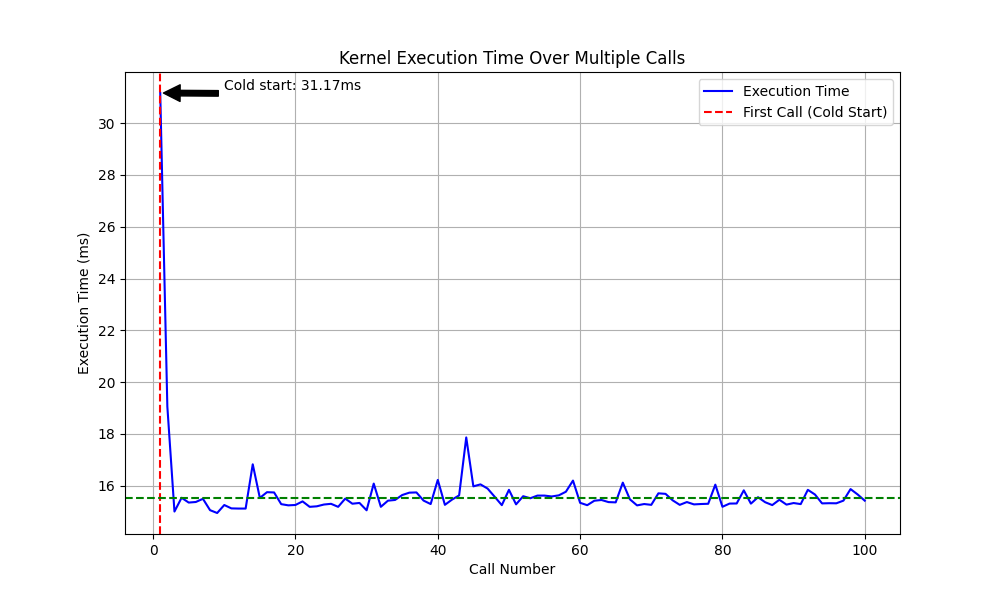
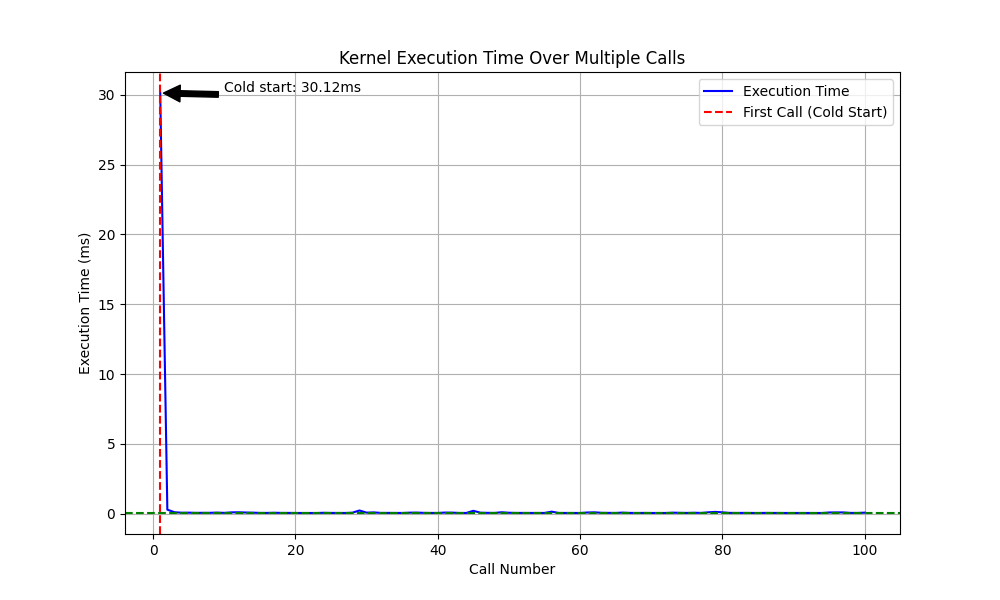
fixed examples and added Torch Extension Comparisson

diff --git a/examples/benchmark.py b/examples/benchmark.py
@@ -1,0 +1,97 @@
+import torch
+import catapult
+import time
+import matplotlib.pyplot as plt
+import saxpy_cuda
+import numpy as np
+
+NUM_THREADS = 128
+NUM_BLOCKS = 32
+N = NUM_THREADS * NUM_BLOCKS
+NUM_RUNS = 100
+
+@catapult.jit(
+    kernel_path="example_kernel.cu",
+    kernel_name="saxpy"
+)
+def catapult_saxpy(a, x, y):
+    output = torch.zeros_like(x)
+    catapult_saxpy.kernel[(NUM_BLOCKS, 1, 1), (NUM_THREADS, 1, 1)](a, x, y, output, N)
+    return output
+
+def benchmark():
+    device = torch.device("cuda")
+    a = 2.0
+    x = torch.rand(N, device=device, dtype=torch.float32)
+    y = torch.rand(N, device=device, dtype=torch.float32)
+    
+    # Warmup
+    for _ in range(10):
+        _ = catapult_saxpy(a, x, y)
+        _ = saxpy_cuda.saxpy(a, x, y)
+    
+    torch.cuda.synchronize()
+    
+    catapult_times = []
+    torch_ext_times = []
+    
+    # Benchmark runs
+    for i in range(NUM_RUNS):
+        # Catapult timing
+        start = time.perf_counter()
+        out_catapult = catapult_saxpy(a, x, y)
+        torch.cuda.synchronize()
+        catapult_times.append((time.perf_counter() - start) * 1000)
+        
+        # PyTorch Extension timing
+        start = time.perf_counter()
+        out_torch = saxpy_cuda.saxpy(a, x, y)
+        torch.cuda.synchronize()
+        torch_ext_times.append((time.perf_counter() - start) * 1000)
+        
+        # Verify results match
+        if i == 0:
+            assert torch.allclose(out_catapult, out_torch, rtol=1e-5, atol=1e-5)
+    
+    return catapult_times, torch_ext_times
+
+def plot_results(catapult_times, torch_ext_times):
+    plt.figure(figsize=(12, 6))
+    x = range(len(catapult_times))
+    
+    plt.plot(x, catapult_times, 'b-', label='Catapult JIT', alpha=0.7)
+    plt.plot(x, torch_ext_times, 'r-', label='PyTorch Extension', alpha=0.7)
+    
+    plt.xlabel('Run Number')
+    plt.ylabel('Execution Time (ms)')
+    plt.title('SAXPY Kernel Performance: Catapult vs PyTorch Extension')
+    plt.grid(True, alpha=0.3)
+    plt.legend()
+    
+    # Add statistics as text
+    stats_text = (
+        f'Catapult Mean: {np.mean(catapult_times):.3f}ms ± {np.std(catapult_times):.3f}ms\n'
+        f'Torch Ext Mean: {np.mean(torch_ext_times):.3f}ms ± {np.std(torch_ext_times):.3f}ms'
+    )
+    plt.text(0.02, 0.98, stats_text,
+             transform=plt.gca().transAxes,
+             verticalalignment='top',
+             bbox=dict(boxstyle='round', facecolor='white', alpha=0.8))
+    
+    plt.tight_layout()
+    plt.savefig('benchmark_results.png', dpi=300, bbox_inches='tight')
+    plt.close()
+
+if __name__ == "__main__":
+    if not torch.cuda.is_available():
+        raise RuntimeError("CUDA device not available")
+        
+    print("Running benchmarks...")
+    catapult_times, torch_ext_times = benchmark()
+    
+    print("Plotting results...")
+    plot_results(catapult_times, torch_ext_times)
+    
+    print(f"Results saved to benchmark_results.png")
+    print(f"Catapult average: {np.mean(catapult_times):.3f}ms")
+    print(f"PyTorch Extension average: {np.mean(torch_ext_times):.3f}ms")

diff --git a/examples/cache_plot.py b/examples/cache_plot.py
@@ -19,20 +19,21 @@ NUM_THREADS = 128
 NUM_BLOCKS = 32
 N = NUM_THREADS * NUM_BLOCKS
 
+
 def test_kernel_cache_performance():
     # Setup
     device = torch.device("cuda" if torch.cuda.is_available() else "cpu")
     if device.type != "cuda":
         pytest.skip("CUDA device not available")
-    
+
     # Prepare input data
     a = 2.0
     x = torch.rand(N, device=device, dtype=torch.float32)
     y = torch.rand(N, device=device, dtype=torch.float32)
-    
+
     # Lists to store timing data
     execution_times = []
-    
+
     # Run kernel 100 times and measure execution time
     for i in range(100):
         start_time = time.perf_counter()
@@ -41,43 +42,45 @@ def test_kernel_cache_performance():
         end_time = time.perf_counter()
         execution_time = (end_time - start_time) * 1000  # Convert to milliseconds
         execution_times.append(execution_time)
-        
+
         # Verify correctness
         expected = a * x + y
         assert torch.allclose(out, expected), f"Iteration {i}: Output mismatch"
-    
+
     # Create visualization
     plt.figure(figsize=(10, 6))
-    plt.plot(range(1, 101), execution_times, 'b-', label='Execution Time')
-    plt.axvline(x=1, color='r', linestyle='--', label='First Call (Cold Start)')
-    plt.xlabel('Call Number')
-    plt.ylabel('Execution Time (ms)')
-    plt.title('Kernel Execution Time Over Multiple Calls')
+    plt.plot(range(1, 101), execution_times, "b-", label="Execution Time")
+    plt.axvline(x=1, color="r", linestyle="--", label="First Call (Cold Start)")
+    plt.xlabel("Call Number")
+    plt.ylabel("Execution Time (ms)")
+    plt.title("Kernel Execution Time Over Multiple Calls")
     plt.legend()
     plt.grid(True)
-    
+
     # Add annotations
-    plt.annotate(f'Cold start: {execution_times[0]:.2f}ms', 
-                xy=(1, execution_times[0]),
-                xytext=(10, execution_times[0]+0.1),
-                arrowprops=dict(facecolor='black', shrink=0.05))
-    
+    plt.annotate(
+        f"Cold start: {execution_times[0]:.2f}ms",
+        xy=(1, execution_times[0]),
+        xytext=(10, execution_times[0] + 0.1),
+        arrowprops=dict(facecolor="black", shrink=0.05),
+    )
+
     avg_cached = np.mean(execution_times[1:])
-    plt.axhline(y=avg_cached, color='g', linestyle='--', 
-                label=f'Avg Cached: {avg_cached:.2f}ms')
-    
+    plt.axhline(y=avg_cached, color="g", linestyle="--", label=f"Avg Cached: {avg_cached:.2f}ms")
+
     # Save the plot
-    plt.savefig('kernel_cache_performance.png')
-    
+    plt.savefig("kernel_cache_performance.png")
+
     # Print statistics
     print(f"\nPerformance Statistics:")
     print(f"First call (cold start): {execution_times[0]:.2f}ms")
     print(f"Average cached calls: {avg_cached:.2f}ms")
     print(f"Min cached time: {min(execution_times[1:]):.2f}ms")
     print(f"Max cached time: {max(execution_times[1:]):.2f}ms")
-    
+
     # Verify caching is working
     assert execution_times[0] > avg_cached, "Caching doesn't seem to be effective"
+
 
 if __name__ == "__main__":
     test_kernel_cache_performance()

diff --git a/examples/setup.py b/examples/setup.py
@@ -1,0 +1,43 @@
+from setuptools import setup
+from torch.utils.cpp_extension import BuildExtension, CUDAExtension
+import torch
+
+# Get CUDA compute capability
+device = torch.cuda.get_device_properties(0)
+arch = f"{device.major}{device.minor}"
+
+setup(
+    name='saxpy_cuda',
+    version='0.1',
+    author='User',
+    author_email='user@example.com',
+    description='SAXPY CUDA Extension',
+    ext_modules=[
+        CUDAExtension('saxpy_cuda', 
+            sources=['saxpy_torch.cu'],
+            extra_compile_args={
+                'cxx': ['-O3', '-std=c++17'],
+                'nvcc': [
+                    '-O3',
+                    '--use_fast_math',
+                    '-lineinfo',
+                    f'-arch=sm_{arch}',
+                    '-std=c++17',
+                    '--extended-lambda',
+                    '--expt-relaxed-constexpr'
+                ]
+            },
+            include_dirs=[
+                '/usr/local/cuda/include',
+                '/usr/local/cuda-12/include',  # Add CUDA 12 specific path
+            ]
+        )
+    ],
+    cmdclass={
+        'build_ext': BuildExtension
+    },
+    python_requires='>=3.6',
+    install_requires=[
+        'torch>=1.7.0',
+    ]
+)

diff --git a/src/catapult/runtime/jit.py b/src/catapult/runtime/jit.py
@@ -261,8 +261,8 @@ class JITKernel(KernelInterface[T]):
                 options.append(default_opt)
 
         return options
-    
-    def _get_signature(self,*args, **kwargs):
+
+    def _get_signature(self, *args, **kwargs):
         constexpr_vals = []
         for key, val in kwargs.items():
             if key in self.kernel_params.template_params:
@@ -279,7 +279,7 @@ class JITKernel(KernelInterface[T]):
             raise ValueError("GRID IS NONE")
         if thread_grid is None:
             raise ValueError("THREAD GRID IS NONE")
-        
+
         # TODO: Abstract this to a backend driver
         device = torch.cuda.current_device()
 
